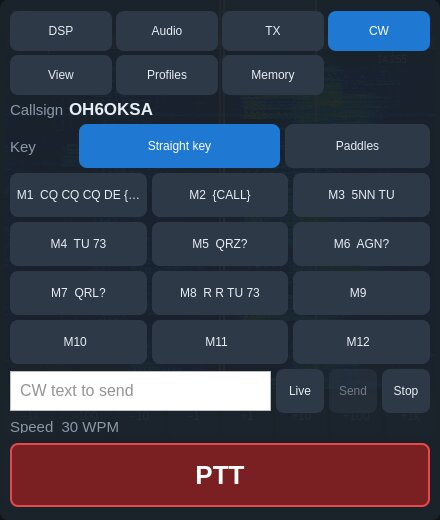
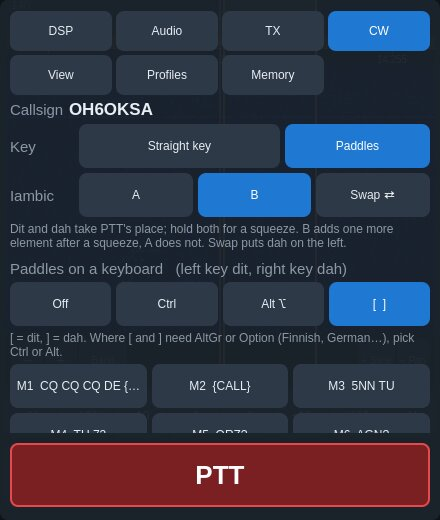
mobile: CW tab: iambic A/B and swap, clearer keyboard paddles, Alt keys
Tester feedback: the keyboard row ("[ ]", "Ctrl L/R", "Off") did not say
what it does, [ and ] need AltGr on Finnish and German layouts, and the
Magic Keyboard has no right Ctrl.

- Iambic A / B and Swap in the CW tab (the radio's iambic mode and swapped
  paddles, which the app's keyer follows); the radio's own iambic on/off
  for its key jack is left alone.
- "Paddles on a keyboard (left key dit, right key dah)": Off, Ctrl, Alt,
  [ ], with a line under it saying what the chosen keys do.
- Left and right Alt / Option as paddles (AltGr counts as right Alt).
- Keying with break-in off says why nothing goes on air.
- The dit and dah pads' labels read Engine.radioSetup.swapPaddles, a
  function's property, so they never followed Swap: now cwSwapPaddles.
- --controls-tab also picks the section on a tablet, for the run only.

Notes: unchanged (goes into the next build's notes)

Claude-Session: https://claude.ai/code/session_01KANojkzU64KoozGDbNDzRK

diff --git a/mobile/qml/CwControls.qml b/mobile/qml/CwControls.qml
@@ -29,8 +29,8 @@ ColumnLayout {
     }
 
     // Keying in PTT's place: a straight key, or paddles (dit, dah) timed by
-    // the app's iambic keyer; mode A/B and swapped paddles are the radio's
-    // settings (Setup > Phone/CW).
+    // the app's iambic keyer, which follows the radio's iambic mode and
+    // swapped paddles (set here or in Setup > Phone/CW).
     RowLayout {
         Layout.fillWidth: true
         Label { text: qsTr("Key"); color: Theme.textDim; font.pixelSize: 15; Layout.preferredWidth: 64 }
@@ -50,15 +50,64 @@ ColumnLayout {
     RowLayout {
         Layout.fillWidth: true
         visible: Engine.cwPaddles
-        Label { text: qsTr("Keyboard"); color: Theme.textDim; font.pixelSize: 15; Layout.preferredWidth: 64 }
+        Label { text: qsTr("Iambic"); color: Theme.textDim; font.pixelSize: 15; Layout.preferredWidth: 64 }
+        AppButton {
+            text: "A"
+            checked: Engine.cwIambicMode === 0
+            Layout.fillWidth: true
+            Layout.preferredWidth: 1
+            focusPolicy: Qt.NoFocus
+            onClicked: Engine.cwIambicMode = 0
+        }
+        AppButton {
+            text: "B"
+            checked: Engine.cwIambicMode === 1
+            Layout.fillWidth: true
+            Layout.preferredWidth: 1
+            focusPolicy: Qt.NoFocus
+            onClicked: Engine.cwIambicMode = 1
+        }
+        AppButton {
+            text: qsTr("Swap ⇄")
+            checked: Engine.cwSwapPaddles
+            Layout.fillWidth: true
+            Layout.preferredWidth: 1
+            focusPolicy: Qt.NoFocus
+            onClicked: Engine.cwSwapPaddles = !Engine.cwSwapPaddles
+        }
+    }
+    Label {
+        visible: Engine.cwPaddles
+        Layout.fillWidth: true
+        text: qsTr("Dit and dah take PTT's place; hold both for a squeeze. B adds one more element after a squeeze, A does not. Swap puts dah on the left.")
+        color: Theme.textDim
+        font.pixelSize: 12
+        wrapMode: Text.WordWrap
+    }
+
+    // Paddles on a hardware keyboard: which two keys are dit and dah.
+    Label {
+        visible: Engine.cwPaddles
+        Layout.fillWidth: true
+        Layout.topMargin: Theme.spacing / 2
+        text: qsTr("Paddles on a keyboard   (left key dit, right key dah)")
+        color: Theme.textDim
+        font.pixelSize: 15
+        wrapMode: Text.WordWrap
+    }
+    RowLayout {
+        Layout.fillWidth: true
+        visible: Engine.cwPaddles
         Repeater {
-            model: [{ key: "brackets", label: "[  ]" }, { key: "ctrl", label: qsTr("Ctrl L/R") }, { key: "off", label: qsTr("Off") }]
+            model: [{ key: "off", label: qsTr("Off") }, { key: "ctrl", label: "Ctrl" },
+                    { key: "alt", label: "Alt ⌥" }, { key: "brackets", label: "[  ]" }]
             delegate: AppButton {
                 required property var modelData
                 text: modelData.label
                 checked: Engine.cwKeyboardPaddles === modelData.key
                 Layout.fillWidth: true
                 Layout.preferredWidth: 1
+                focusPolicy: Qt.NoFocus
                 onClicked: Engine.cwKeyboardPaddles = modelData.key
             }
         }
@@ -66,7 +115,14 @@ ColumnLayout {
     Label {
         visible: Engine.cwPaddles
         Layout.fillWidth: true
-        text: qsTr("Dit and dah share PTT's place; press both for iambic. On a keyboard: [ and ], or left and right Ctrl (USB paddle adapters such as Vail). Iambic A/B and swapped paddles: Setup > Phone/CW.")
+        text: {
+            switch (Engine.cwKeyboardPaddles) {
+            case "off": return qsTr("The keyboard does not key CW; use the dit and dah pads on the screen.")
+            case "ctrl": return qsTr("Left Ctrl = dit, right Ctrl = dah. USB paddle adapters (Vail, VBand) send these.")
+            case "alt": return qsTr("Left Alt / Option = dit, right Alt / Option = dah. For keyboards with no right Ctrl, such as Apple's Magic Keyboard.")
+            default: return qsTr("[ = dit, ] = dah. Where [ and ] need AltGr or Option (Finnish, German…), pick Ctrl or Alt.")
+            }
+        }
         color: Theme.textDim
         font.pixelSize: 12
         wrapMode: Text.WordWrap

diff --git a/mobile/qml/CwKeyboardPaddles.qml b/mobile/qml/CwKeyboardPaddles.qml
@@ -1,11 +1,12 @@
 import QtQuick
 import AetherMobile
 
-// CW paddles on a hardware keyboard (CW tab > Key: Paddles, and Keyboard
-// paddles): [ and ] by default, or left and right Ctrl, which USB paddle
-// adapters (Vail, VBand) send. A page forwards its key events; handle*()
-// return true when they took the key. Left = dit, right = dah (the keyer
-// applies the radio's swapped-paddles setting itself).
+// CW paddles on a hardware keyboard (CW tab > Key: Paddles, and Paddles on
+// a keyboard): [ and ] by default, left and right Ctrl, which USB paddle
+// adapters (Vail, VBand) send, or left and right Alt / Option, for keyboards
+// with no right Ctrl (Apple's Magic Keyboard). A page forwards its key
+// events; handle*() return true when they took the key. Left = dit, right =
+// dah (the keyer applies the radio's swapped-paddles setting itself).
 QtObject {
     id: kp
     property bool dit: false
@@ -19,10 +20,19 @@ QtObject {
             if (event.key === Qt.Key_BracketRight) return "right"
             return ""
         }
-        if (event.key !== Qt.Key_Control && event.key !== Qt.Key_Meta) return ""
-        // Qt reports both Ctrl keys as one key: the hardware code tells them
-        // apart (evdev/Android, X11, iOS HID, macOS).
+        // Qt reports both Ctrl (or Alt) keys as one key: the hardware code
+        // tells them apart (evdev/Android, X11, iOS HID, macOS).
         const sc = event.nativeScanCode
+        if (Engine.cwKeyboardPaddles === "alt") {
+            // Right Alt is AltGr on many PC layouts.
+            if (event.key === Qt.Key_AltGr) return "right"
+            if (event.key !== Qt.Key_Alt) return ""
+            if ([56, 64, 226, 58].indexOf(sc) >= 0) return "left"
+            if ([100, 108, 230, 61].indexOf(sc) >= 0) return "right"
+            console.info("CW keyboard paddles: unknown Alt scan code", sc, "taken as the left paddle")
+            return "left"
+        }
+        if (event.key !== Qt.Key_Control && event.key !== Qt.Key_Meta) return ""
         if ([29, 37, 224, 59].indexOf(sc) >= 0) return "left"
         if ([97, 105, 228, 62].indexOf(sc) >= 0) return "right"
         console.info("CW keyboard paddles: unknown Ctrl scan code", sc, "taken as the left paddle")

diff --git a/mobile/qml/PttButton.qml b/mobile/qml/PttButton.qml
@@ -72,7 +72,7 @@ AppButton {
         z: 2
         // The keyer swaps the paddles itself (the radio's setting): the left
         // pad is always the "dit" input; only its label follows the swap.
-        readonly property bool swapped: !!Engine.radioSetup.swapPaddles
+        readonly property bool swapped: Engine.cwSwapPaddles
         readonly property bool dit: leftPad.tap.pressed
         readonly property bool dah: rightPad.tap.pressed
         onDitChanged: Engine.setCwPaddleState(dit, dah)

diff --git a/mobile/src/MobileEngine.cpp b/mobile/src/MobileEngine.cpp
@@ -3641,6 +3641,7 @@ void MobileEngine::setCwKey(bool down, const QString& reason)
         setLastError(tr("The radio did not accept the CW key."));
         return;
     }
+    noteBreakInOff();
     emit cwChanged();
     emit cwKeyDownChanged();
 }
@@ -3666,7 +3667,8 @@ void MobileEngine::setCwPaddles(bool on)
 QString MobileEngine::cwKeyboardPaddles() const
 {
     const QString keys = AppSettings::instance().value(QStringLiteral("MobileCwKeyboardPaddles"), QStringLiteral("brackets")).toString();
-    return (keys == QLatin1String("ctrl") || keys == QLatin1String("off")) ? keys : QStringLiteral("brackets");
+    return (keys == QLatin1String("ctrl") || keys == QLatin1String("alt") || keys == QLatin1String("off"))
+        ? keys : QStringLiteral("brackets");
 }
 
 void MobileEngine::setCwKeyboardPaddles(const QString& keys)
@@ -3676,6 +3678,38 @@ void MobileEngine::setCwKeyboardPaddles(const QString& keys)
         AppSettings::instance().setValue(QStringLiteral("MobileCwKeyboardPaddles"), keys);
         AppSettings::instance().save();
         emit cwChanged();
+    }
+}
+
+int MobileEngine::cwIambicMode() const { return m_session.radioModel().transmitModel().cwIambicMode(); }
+
+void MobileEngine::setCwIambicMode(int mode)
+{
+    if (m_connected) {
+        m_session.radioModel().transmitModel().setCwIambicMode(mode ? 1 : 0);
+    }
+}
+
+bool MobileEngine::cwSwapPaddles() const { return m_session.radioModel().transmitModel().cwSwapPaddles(); }
+
+void MobileEngine::setCwSwapPaddles(bool on)
+{
+    if (m_connected) {
+        releasePaddles();
+        m_session.radioModel().transmitModel().setCwSwapPaddles(on);
+    }
+}
+
+void MobileEngine::noteBreakInOff()
+{
+    if (m_session.radioModel().transmitModel().cwBreakIn()) {
+        return;
+    }
+    static QElapsedTimer shown;
+    if (!shown.isValid() || shown.elapsed() > 10000) {
+        shown.start();
+        qCInfo(lcMobile) << "CW keyed with break-in off";
+        setLastError(tr("Break-in is off, so the key does not put the radio on air. Turn on Break-in in the CW tab."));
     }
 }
 
@@ -3705,6 +3739,7 @@ void MobileEngine::setCwPaddleState(bool dit, bool dah)
     }
     if (held && !m_cwPaddleHeld) {
         m_cwPaddleInput = rm.localTxController()->capture(TxController::Activity::CwKey).request();
+        noteBreakInOff();
     }
     m_cwPaddleHeld = held;
     rm.setCwPaddleHeld(held);

diff --git a/mobile/src/MobileEngine.h b/mobile/src/MobileEngine.h
@@ -198,8 +198,14 @@ class MobileEngine : public QObject {
     // speed and swapped paddles follow the radio's settings). Remembered.
     Q_PROPERTY(bool cwPaddles READ cwPaddles WRITE setCwPaddles NOTIFY cwChanged)
     // Paddles on a hardware keyboard: "brackets" ([ and ]), "ctrl" (left and
-    // right Ctrl, as USB paddle adapters send) or "off". Remembered.
+    // right Ctrl, as USB paddle adapters send), "alt" (left and right Alt /
+    // Option, for keyboards with no right Ctrl) or "off". Remembered.
     Q_PROPERTY(QString cwKeyboardPaddles READ cwKeyboardPaddles WRITE setCwKeyboardPaddles NOTIFY cwChanged)
+    // The radio's iambic mode (0 = A, 1 = B) and swapped paddles, which the
+    // app's keyer follows. The radio's own iambic on/off (its key jack) is
+    // left alone.
+    Q_PROPERTY(int cwIambicMode READ cwIambicMode WRITE setCwIambicMode NOTIFY cwChanged)
+    Q_PROPERTY(bool cwSwapPaddles READ cwSwapPaddles WRITE setCwSwapPaddles NOTIFY cwChanged)
     Q_PROPERTY(int cwSpeed READ cwSpeed WRITE setCwSpeed NOTIFY cwChanged)
     Q_PROPERTY(int cwPitch READ cwPitch WRITE setCwPitch NOTIFY cwChanged)
     Q_PROPERTY(bool cwBreakIn READ cwBreakIn WRITE setCwBreakIn NOTIFY cwChanged)
@@ -478,6 +484,10 @@ public:
     void setCwPaddles(bool on);
     QString cwKeyboardPaddles() const;
     void setCwKeyboardPaddles(const QString& keys);
+    int cwIambicMode() const;
+    void setCwIambicMode(int mode);
+    bool cwSwapPaddles() const;
+    void setCwSwapPaddles(bool on);
     // The paddles as held now; the keyer forms the elements.
     Q_INVOKABLE void setCwPaddleState(bool dit, bool dah);
     int cwSpeed() const;
@@ -1024,6 +1034,8 @@ private:
     std::atomic<int> m_paddleElements{0};   // key-downs from the paddles (diagnostics)
     void syncIambicKeyer();
     void releasePaddles();
+    // A key or paddle press with break-in off: say why nothing goes on air.
+    void noteBreakInOff();
     std::atomic<int> m_cwxSidetoneDowns{0};      // key-downs played (diagnostics)
     std::atomic<qint64> m_cwxSidetoneKeyedMs{0};  // time keyed, ms
     std::chrono::steady_clock::time_point m_cwxSidetoneDownAt;  // keyer thread only

diff --git a/mobile/src/main.cpp b/mobile/src/main.cpp
@@ -128,7 +128,8 @@ int main(int argc, char* argv[])
         QStringLiteral("state"));
     parser.addOption(controlsOption);
     const QCommandLineOption controlsTabOption(QStringLiteral("controls-tab"),
-        QStringLiteral("With --controls drawer: tab to show (0 Mode … 4 CW)."), QStringLiteral("index"));
+        QStringLiteral("Controls tab to show (0 DSP, 1 Audio, 2 TX, 3 CW, 4 View, 5 Profiles, 6 Memory); on a "
+                       "tablet, the one section pinned for this run."), QStringLiteral("index"));
     parser.addOption(controlsTabOption);
     const QCommandLineOption controlsScrollOption(QStringLiteral("controls-scroll"),
         QStringLiteral("With --controls drawer: scroll the shown tab down by <px> (screenshots)."), QStringLiteral("px"));
@@ -1005,6 +1006,20 @@ int main(int argc, char* argv[])
                 }
             }
         });
+    }
+
+    // The tablet's side panel shows pinned sections, not tabs: pin only that
+    // one for this run and put the user's choice back on exit.
+    if (parser.value(controlsOption) != QLatin1String("drawer") && parser.isSet(controlsTabOption)) {
+        static const QStringList names{QStringLiteral("DSP"), QStringLiteral("Audio"), QStringLiteral("TX"),
+            QStringLiteral("CW"), QStringLiteral("View"), QStringLiteral("Profiles"), QStringLiteral("Memory")};
+        const QString name = names.value(parser.value(controlsTabOption).toInt());
+        if (!name.isEmpty()) {
+            const QStringList saved = engine.pinnedSections();
+            engine.setPinnedSections({name});
+            QObject::connect(&app, &QCoreApplication::aboutToQuit, &engine,
+                             [&engine, saved] { engine.setPinnedSections(saved); });
+        }
     }
 
     if (parser.isSet(screenshotOption)) {

diff --git a/docs/mobile/MANUAL.md b/docs/mobile/MANUAL.md
@@ -317,11 +317,17 @@ offers **Off**.
 - **KEY** — in CW modes the same button is a straight key, or **paddles**
   (Controls → CW → Key: *Paddles*): dit and dah side by side in its
   place, each its own touch, so holding both gives iambic squeeze. The app
-  times the elements itself (iambic A or B, speed and swapped paddles as
-  set in [Radio Setup](#9-radio-setup) → Phone/CW and the CW tab), sends
-  them to the radio and plays the sidetone in step. On a keyboard, **[**
-  and **]** are the paddles, or left and right **Ctrl** for USB paddle
-  adapters (Vail, VBand), chosen under *Keyboard*.
+  times the elements itself, sends them to the radio and plays the
+  sidetone in step. **Iambic** in the CW tab sets **A** or **B** (B adds
+  one more element after a squeeze) and **Swap ⇄** (dah on the left); they
+  are the radio's settings, also in [Radio Setup](#9-radio-setup) →
+  Phone/CW. **Paddles on a keyboard** picks which two keys of a hardware
+  keyboard are the paddles, the left one dit and the right one dah:
+  left and right **Ctrl** (what USB paddle adapters such as Vail and VBand
+  send), left and right **Alt ⌥** (Option; for keyboards with no right
+  Ctrl, such as Apple's Magic Keyboard), **[ ]** (on English layouts,
+  where [ and ] are keys of their own; on Finnish or German layouts they
+  need AltGr or Option, so pick Ctrl or Alt there), or **Off**.
 
   ![CW paddles in PTT's place](manual/cw-paddles.jpg)
 
@@ -419,9 +425,12 @@ them back into the drawer.
   - **CW text** — type and *Send*; with **Live** on, each letter goes as you
     type it (Return sends a space). *Stop*, or Esc, clears what is still
     queued.
-  - **Key** — *Straight key* or *Paddles* (see [KEY](#7-transmitting-ptt-key-and-tune)),
-    and the keyboard's paddle keys.
-  - Speed, pitch, **Break-in** (QSK) and the **Decoder**, with **Sens**
+  - **Key** — *Straight key* or *Paddles*; with paddles, **Iambic** A / B and
+    **Swap ⇄**, and **Paddles on a keyboard** (see
+    [KEY](#7-transmitting-ptt-key-and-tune)).
+  - Speed, pitch, **Break-in** (QSK) and the **Decoder**. With Break-in off
+    the key does not put the radio on air; the app says so when you key.
+    The decoder has **Sens**
     (0–100, default 70): higher shows only the letters decoded with
     confidence, so band noise stays out. It reads hand-sent and keyer CW
     from 8 to 45 WPM. Decoded text shows

diff --git a/mobile/ROADMAP.md b/mobile/ROADMAP.md
@@ -10,9 +10,11 @@ queued, waiting on someone, or still to verify follows.
   ("another client is transmitting or sending a CW/CWX message") with no
   client on air, in beta 4 and build 79 alike, until the radio was restarted;
   the cause is not known.
-- CW tab (tester feedback): Iambic A / B and swap paddles in the tab itself,
-  the keyboard row explained ("keyboard keys as paddles") with Option L/R
-  as a choice, a note when break-in is off.
+- CW tab (tester feedback): Iambic A / B and Swap ⇄ in the tab itself;
+  "Paddles on a keyboard" says which key is dit and which dah, with left /
+  right Alt ⌥ (Option) as a choice for keyboards with no right Ctrl; a note
+  when keying with break-in off; the dit and dah pads' labels now follow
+  Swap (they never did). Alt ⌥ on the iPad's Magic Keyboard is to try.
 
 Open from tester feedback: SmartLink sign-in not kept for one tester (log
 needed).
